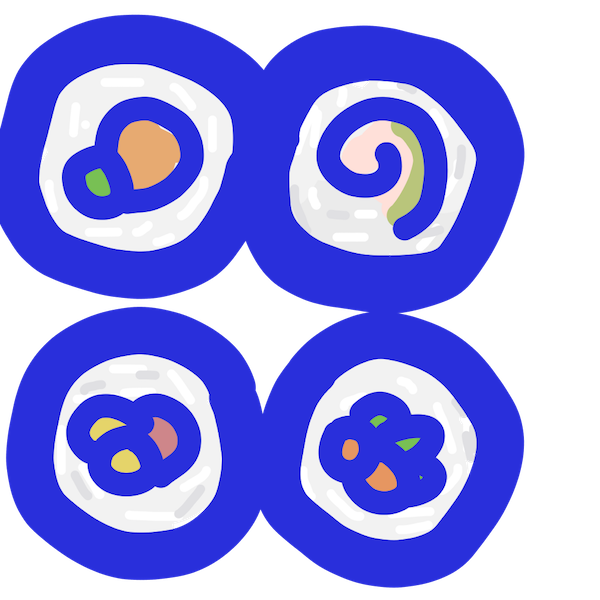
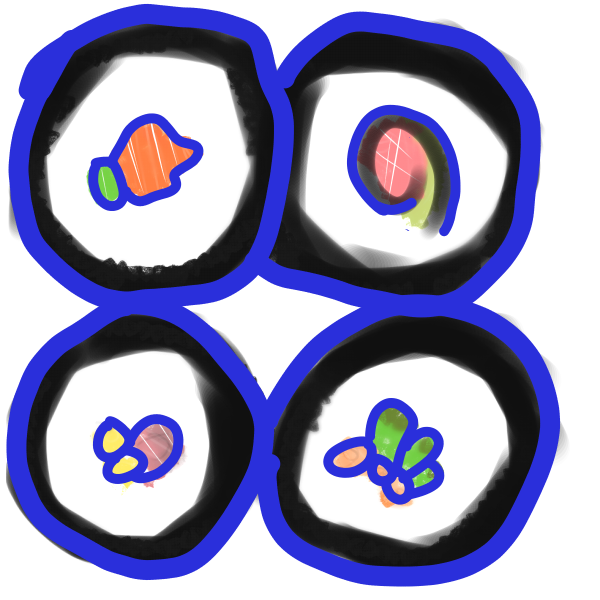
preliminary score/happiness/hunger updates, some updated assets

diff --git a/src/ts/state/main.ts b/src/ts/state/main.ts
@@ -9,6 +9,10 @@ module RitaConsumesTheUniverse.State
    private bentoArea;
    private buster;
    private music;
+   score: number = 0;
+   private scoreDisplay;
+   hungerBar;
+   happinessBar;
 
     create()
     {
@@ -27,6 +31,9 @@ module RitaConsumesTheUniverse.State
       this.music.push(this.add.audio('five'));
       this.music.push(this.add.audio('six'));
 
+      this.hungerBar = new Prefab.Bar(this.game, 500, 310);
+      this.happinessBar = new Prefab.Bar(this.game, 500, 350);
+
       this.tiles = [];
 
       for (var i=0;i<this.numTiles;i++)
@@ -39,24 +46,36 @@ module RitaConsumesTheUniverse.State
             this.tiles[i][j] = tile;
          }
       }
+
+      this.scoreDisplay = this.game.add.text(500, 380, "Score: " + this.score, { font: "65px Arial", fill: "#ffffff", align: "center" });
       this.input.onDown.add(this.clickTile, this);
+      this.game.time.events.loop(250, this.hungerBar.increment, this.hungerBar);
+      this.game.time.events.loop(500, this.happinessBar.increment, this.happinessBar);
+    }
+
+    update()
+    {
+      this.scoreDisplay.setText("Score: " + this.score);      
     }
 
     clickTile()
     {
-      this.buster.frame = 1;
       var numClicked = 1;
       var selectedRow = Prefab.Tile.findRoworColumn(this.input.worldY);
       var selectedColumn = Prefab.Tile.findRoworColumn(this.input.worldX);
-      var numClicked = 1 + this.floodFill(selectedRow, selectedColumn, this.tiles[selectedRow][selectedColumn].key);
+      var clickedTile = this.tiles[selectedRow][selectedColumn];
+      var typeData = Prefab.Food.data[Prefab.FoodEnum[<number>clickedTile.food]];
+      var numClicked = 1 + this.floodFill(selectedRow, selectedColumn, clickedTile.key);
       this.fallDown();
       this.newTiles();
-      //this.buster.frame = 0;
 
       if (numClicked <= 5)
         this.music[numClicked-1].play();
       else
         this.music[5].play();
+      this.score += numClicked * typeData.hunger + numClicked * typeData.happiness;
+      this.hungerBar.increment(numClicked * typeData.hunger);
+      this.happinessBar.increment(numClicked * typeData.happiness);
     }
 
     floodFill(row:number,col:number,key:string)

diff --git a/src/ts/prefab/bar.ts b/src/ts/prefab/bar.ts
@@ -1,0 +1,51 @@
+module RitaConsumesTheUniverse.Prefab
+{
+  export class Bar extends Phaser.Graphics
+  {
+    x: number;
+    y: number;
+    barWidth: number;
+    current: number = 100.0;
+    _last: number = 100.0;
+    max: number = 100.0;
+
+    constructor(game: Phaser.Game, x: number, y: number, width: number = 225, current: number = 100)
+    {
+      super(game, x, y);
+      this.barWidth = width;
+      this.current = current;
+      this.drawBar();
+      game.add.existing(this);
+    }
+
+    update()
+    {
+          this.clear();
+          this.drawBar();
+    }
+
+    increment(amount: number = -1) {
+      if (0 < this.current + amount && this.current + amount < 100)
+        this.current += amount;
+    }
+
+    drawBar()
+    {
+      var x = (this.current / this.max) * 100;
+      var colour = Phaser.Color.getColor((x > 50 ? 1-2*(x-50)/100.0 : 1.0) * 255, (x > 50 ? 1.0 : 2*x/100.0) * 255, 0);
+      var black = Phaser.Color.getColor(0,0,0);
+
+      this.beginFill(black);
+      this.lineStyle(20, black, 1);
+      this.moveTo(0,0);
+      this.lineTo(this.barWidth, 0);
+      this.endFill();
+
+      this.beginFill(colour);
+      this.lineStyle(20, colour, 1);
+      this.moveTo(0,0);
+      this.lineTo(this.barWidth * this.current / this.max, 0);
+      this.endFill();
+    }
+  }
+}

diff --git a/src/ts/prefab/tile.ts b/src/ts/prefab/tile.ts
@@ -1,18 +1,24 @@
 module RitaConsumesTheUniverse.Prefab
 {
-  export enum Food {Sashimi, Tempura, Gyoza, Nigiri, Rolls, Miso}
+  export enum FoodEnum {Sashimi, Tempura, Gyoza, Nigiri, Rolls, Miso}
+  export class Food {
+    static data = [{hunger:2,happiness:5},
+                      {hunger:3,happiness:3},
+                      {hunger:2,happiness:4},
+                      {hunger:3,happiness:3},
+                      {hunger:4,happiness:2},
+                      {hunger:1,happiness:1}];
+  }
 
   export class Tile extends Phaser.Sprite
   {
-    x;
-    y;
     food:Food;
     static tileSize = 60;
 
-    constructor(game: Phaser.Game, x: number, y: number, food: string)
+    constructor(game: Phaser.Game, x: number, y: number, food)
     {
       super(game, x*Tile.tileSize, y*Tile.tileSize, food, 0);
-
+      this.food = food;
       game.add.existing(this);
     }
 
@@ -30,7 +36,7 @@ module RitaConsumesTheUniverse.Prefab
 
     static randomTile(scope?: string)
     {
-      return Food[Math.floor(Math.random() * (Object.keys(Food).length)/2)]; // added twice
+      return FoodEnum[Math.floor(Math.random() * (Object.keys(FoodEnum).length)/2)]; // added twice
     }
 
     static findRoworColumn(input:number)

diff --git a/src/ts/game.ts b/src/ts/game.ts
@@ -11,7 +11,7 @@ module RitaConsumesTheUniverse
   {
     constructor()
     {
-      super(850, 480, Phaser.AUTO, 'game-content');
+      super(900, 500, Phaser.AUTO, 'game-content');
 
       this.state.add('boot', State.Boot);
       this.state.add('preload', State.Preload);

diff --git a/src/index.html b/src/index.html
@@ -2,7 +2,7 @@
 <html>
 <head>
   <meta charset="utf-8">
-  <title>Rita Consumes the Universe</title>
+  <title>Bento Buster</title>
 
   <!-- build:css main.min.css -->
   <link rel="stylesheet" href="css/main.css"> 
